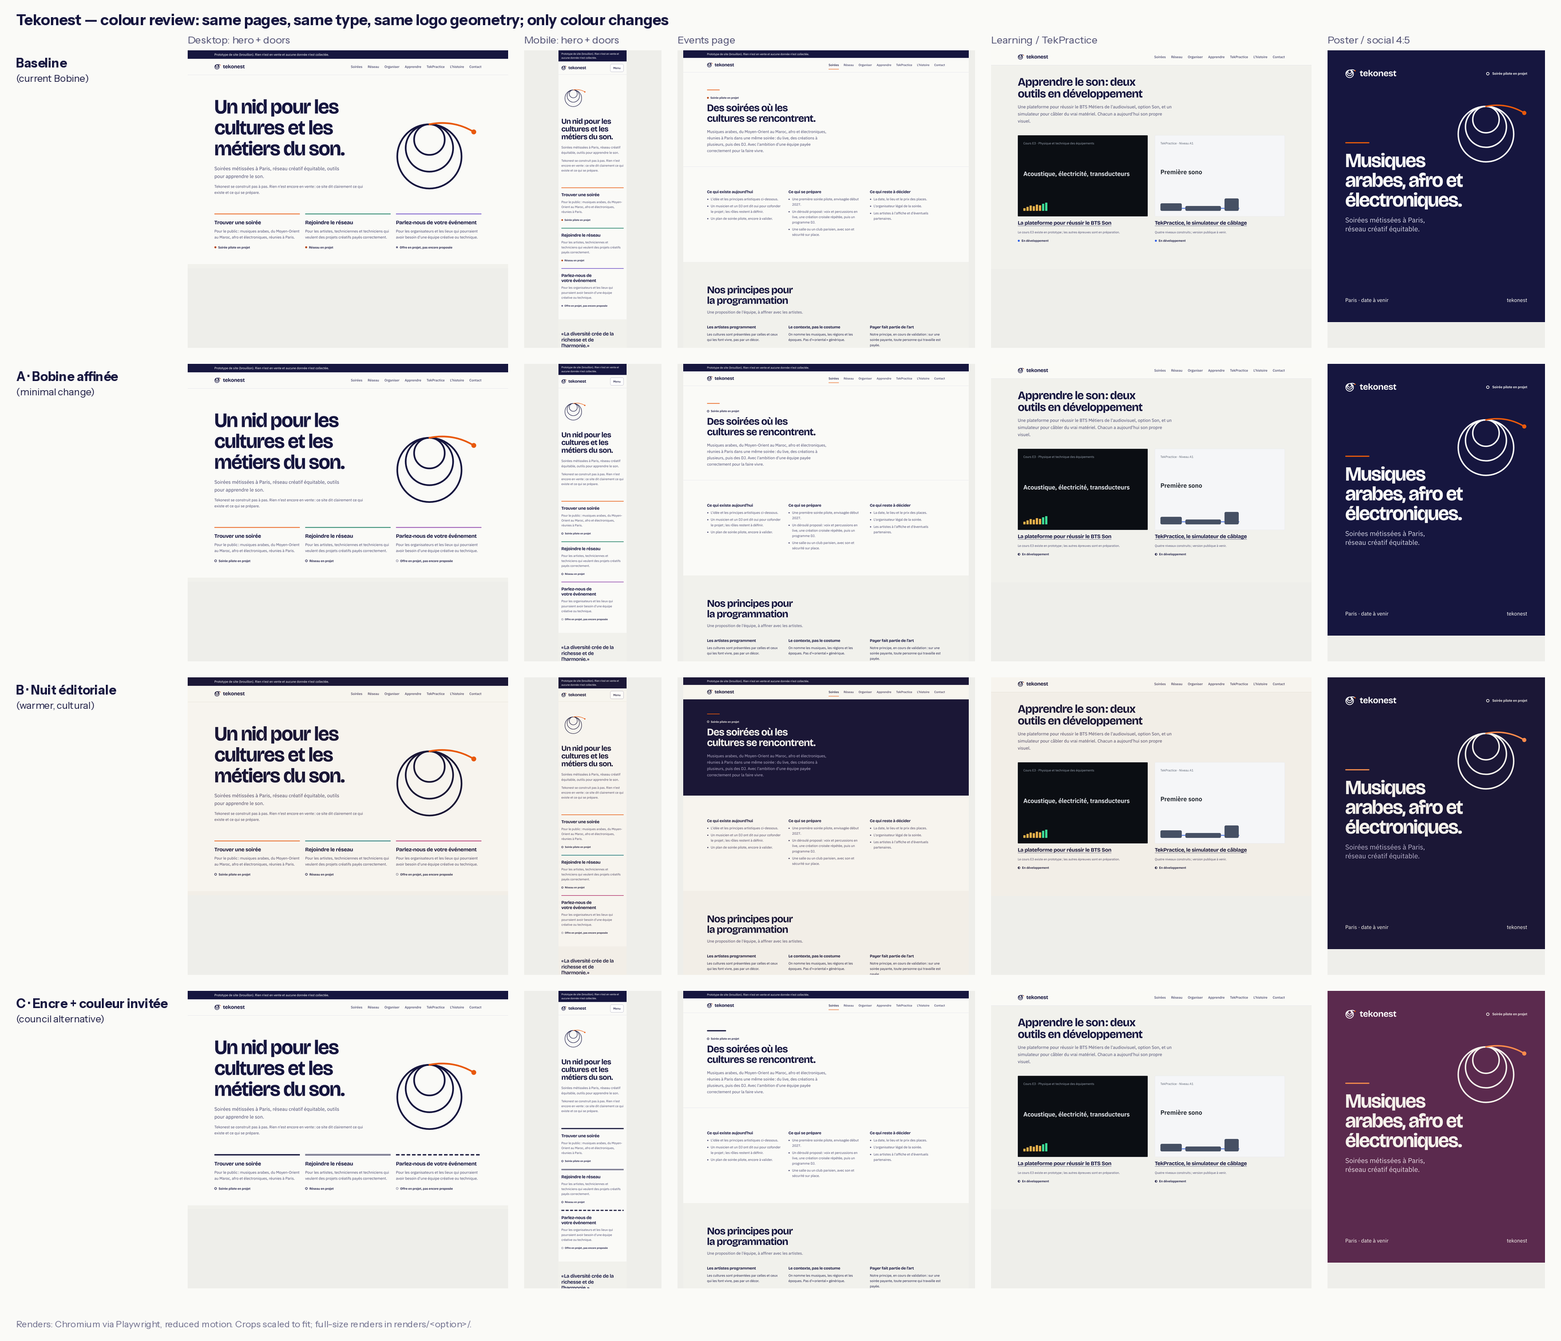
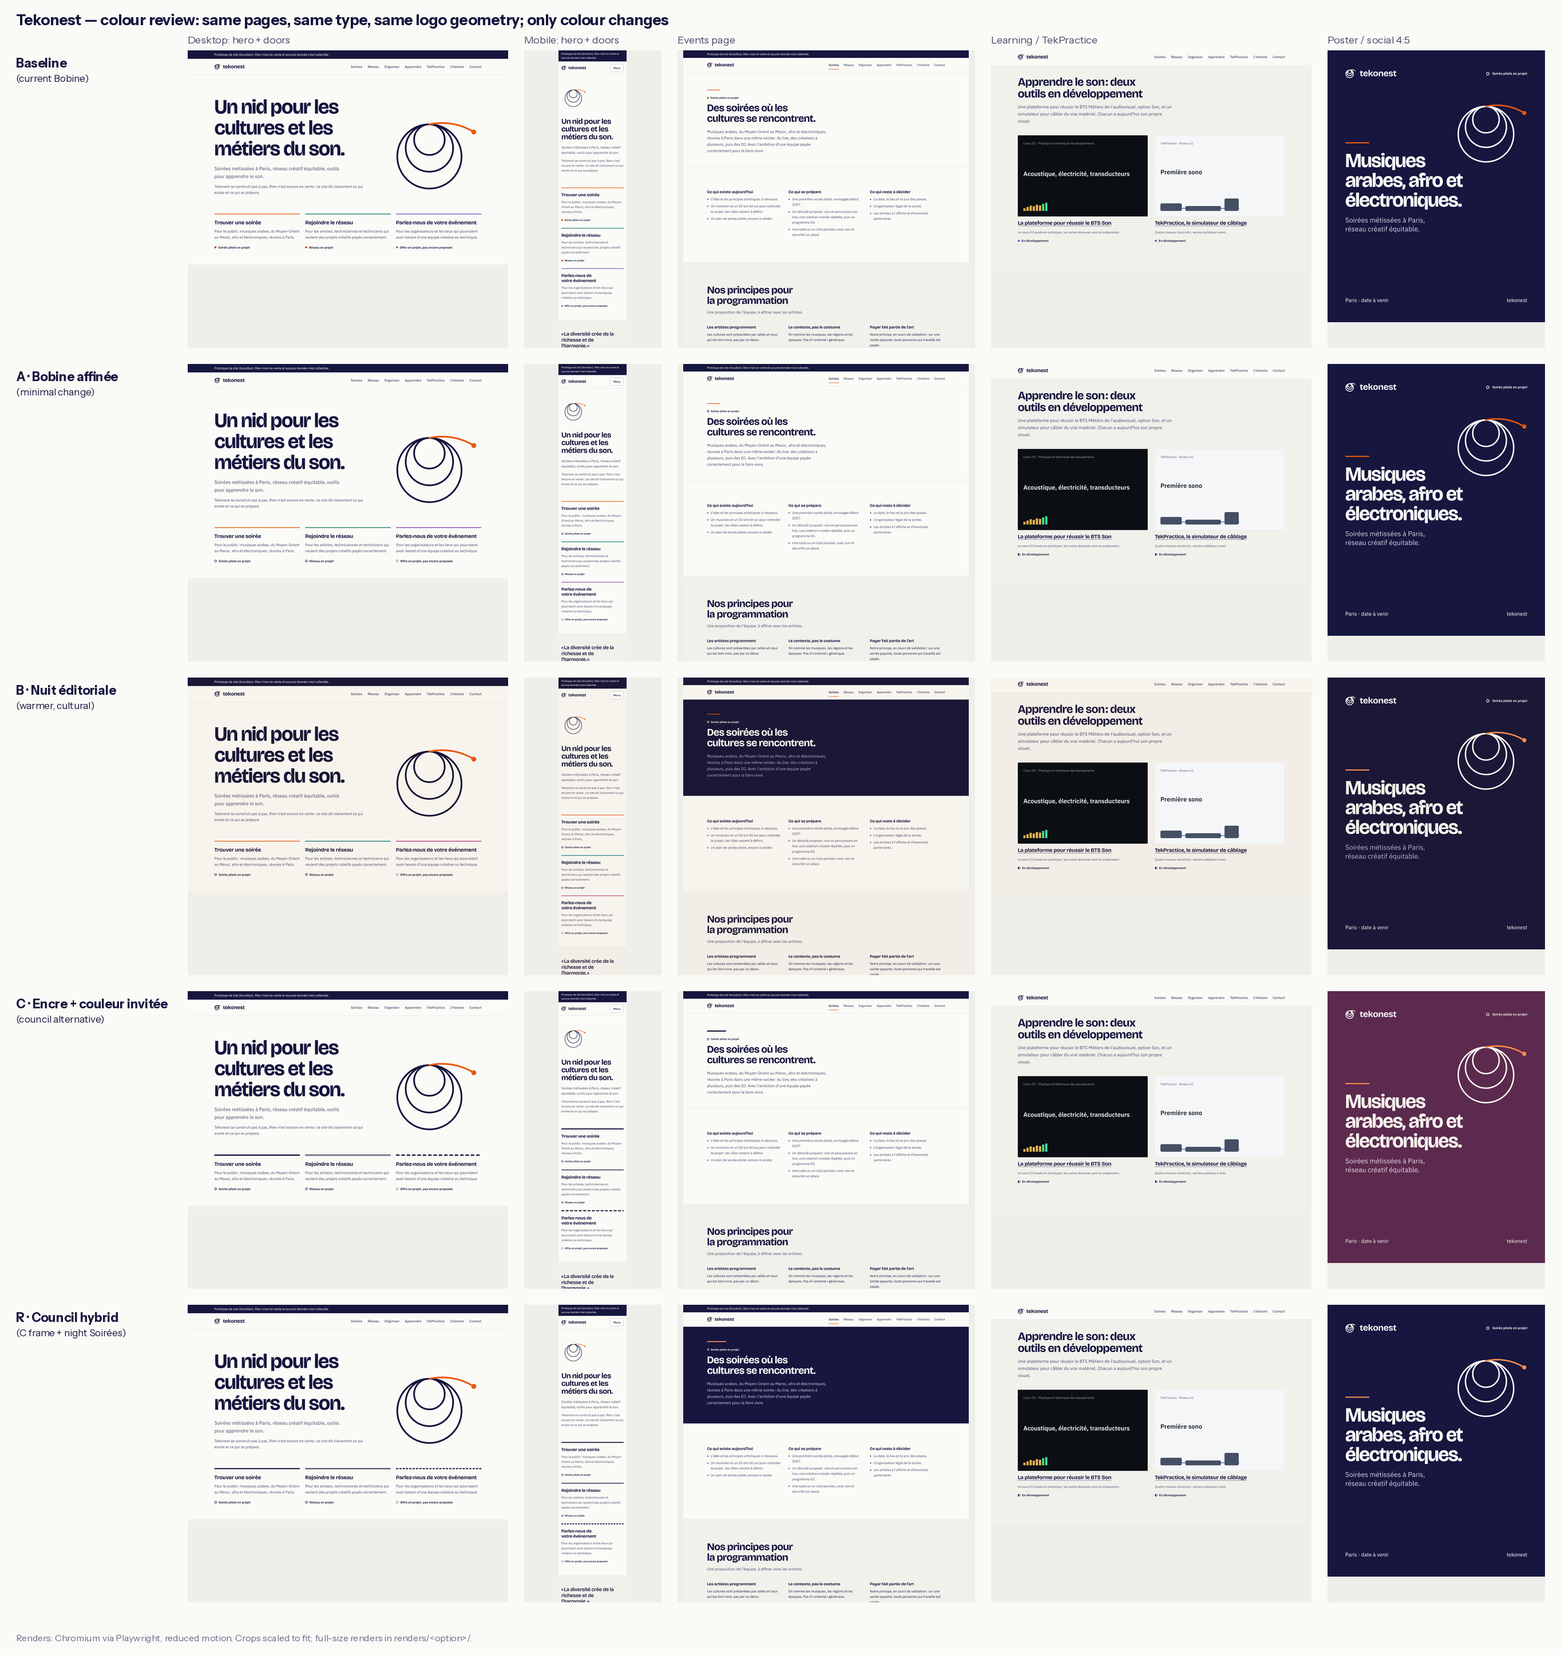
colour review: council round 2 + rendered council hybrid (R)
Claude-Session: https://claude.ai/code/session_01Gw4c8Kgd4brT9A9oYSwFTS

diff --git a/design/08-colour-review/tools/make_options.py b/design/08-colour-review/tools/make_options.py
@@ -75,3 +75,29 @@ C = {"name": "C-encre-invitee", "label": "C · Encre + couleur invitée (council
 
 for o in (A, B, C):
     (OUT / f"{o['name']}.json").write_text(json.dumps(o, indent=1, ensure_ascii=False)); print("wrote", o["name"])
+
+# ── Council recommendation (post round 2): C frame, native border patterns, Soirées night ground, focus colour per ground ──
+NAT = {"soirees": "solid", "reseau": "double", "organiser": "dashed", "apprendre": "dotted", "tekpractice": "dotted"}
+nat = "".join(f'[style*="--cable-{k}"]{{--cable-style:{v}}}\n' for k, v in NAT.items())
+FORCED = """
+@media (forced-colors: active){.status::before{forced-color-adjust:none;border-color:CanvasText}
+ .status--now::before{background:CanvasText}.status--dev::before{background:linear-gradient(90deg,CanvasText 50%,transparent 50%)}}
+"""
+R = {"name": "R-recommended-hybrid", "label": "R · Council hybrid (C frame + night Soirées)",
+ "tokens": {"--focus-color": INK, "--focus-ring": "3px solid var(--focus-color)", **{f"--cable-{k}": INK for k in PAT}, **{f"--cable-{k}-text": INK for k in PAT},
+            "--signal-on-dark": SCLAIR,
+            "--status-now": "var(--color-ink)", "--status-dev": "var(--color-ink)", "--status-prep": "var(--color-ink)", "--status-later": "var(--color-ink)",
+            "--poster-bg": INK, "--poster-ink": "#FAFAF7", "--poster-ink-2": "#D2D2E4", "--poster-accent": SCLAIR, "--poster-loop": "#FAFAF7"},
+ "extra_css": SHAPES + FORCED + "/* branch = name + NATIVE border style (survives forced colours, zoom, one-colour print). Implementation: data-branch, not [style*=] */\n" + nat + f"""
+.door{{border-top:5px var(--cable-style,solid) {INK}}}
+.branch-hero .cable{{height:0;width:96px;background:none;border-top:5px var(--cable-style,solid) {INK}}}
+.board tbody th a{{border-bottom:4px var(--cable-style,solid) {INK};padding-bottom:4px}}
+.signup{{border-top:5px var(--cable-style,solid) {INK}}}
+.site-footer{{--focus-color:#FAFAF7}}
+.branch-hero[style*="--cable-soirees"]{{background:{INK};color:#FAFAF7;padding-block:72px;--focus-color:#FAFAF7;--color-ink:#FAFAF7;--color-ink-2:#D2D2E4;--color-ink-3:#D2D2E4;--color-signal:{SCLAIR}}}
+.branch-hero[style*="--cable-soirees"] .cable{{border-top-color:{SCLAIR}}}
+""", "logo": {"ink": INK, "signal": "#E8590C"}, "poster": {"logo": "lockup-reverse.svg"},
+ "semantic": {"ground": "#FAFAF7", "branches": {}, "status": {}, "contrast_checks": checks("#FAFAF7", INK, "#4A4A6E", "#6B6B8A", "#B4430A", "#E8590C", "#8E8EA8", [
+     ["Focus ring on footer (paper colour on ink)", "#FAFAF7", INK, 3], ["Text on night (Soirées hero)", "#FAFAF7", INK, 4.5], ["Secondary on night", "#D2D2E4", INK, 4.5],
+     ["Sodium clair on night (text-capable)", SCLAIR, INK, 4.5], ["Sodium on night (logo plug)", "#E8590C", INK, 3]])}}
+(OUT / f"{R['name']}.json").write_text(json.dumps(R, indent=1, ensure_ascii=False)); print("wrote", R["name"])

diff --git a/design/08-colour-review/council/round2-tekbranddesigner.md b/design/08-colour-review/council/round2-tekbranddesigner.md
@@ -1,0 +1,48 @@
+# Round 2 — tekbranddesigner (structured challenge)
+
+> Evidence: comparison-board, vision-board, renders 1/3/5 for 0, A, B, C; metrics.md; options JSON. I computed the extra contrast values with WCAG 2.x. Riso behaviour is my trade judgement; it is not measured here.
+
+## 1. Challenge
+
+**tekcreativedirector**
+- Strongest point: warmth comes from the **ground**. B's events render (a full-bleed night hero) is the first web screen that feels like a night, and it adds no hue.
+- Most dangerous assumption: that a guest colour can replace the brand ground. C's poster render puts prune `#5B2A4E` under the coil. On an Instagram grid, every tile would then be a different colour, and recognition would rest on a 40 px coil alone.
+
+**tekdesigner**
+- Strongest point: the token-job audit. The ink focus ring and shape statuses fix measured defects, and the vision board shows that statuses survive every CVD simulation and grayscale.
+- Most dangerous assumption: that A is a safe stop. A still has five hues at L\* 38–56. In the grayscale column they are a single grey.
+
+## 2. Scores (1–5)
+
+| | A | B | C |
+|---|---|---|---|
+| Brand fit | 3: same navy+sodium, but branch hues still dilute the strand | 4: night hero = the poster's voice on the web | 4: purest ink+sodium, but the prune poster loses the navy |
+| Distinctiveness | 2: five rules look like a SaaS feature grid | 3: night ground is own-able; the hue set is not | 4: ink patterns (double, dashed) are unusual and ownable |
+| Emotional range | 2: cool throughout | 4: day/night split | 4: guest ink gives each edition its own feeling |
+| Legibility | 4: all pass | 4: all pass; sodium 3.26 on écru is thin | 5: ink everywhere, 16.45:1 |
+| Accessibility | 4: no ΔE<12 pairs | 4: same | 5: meaning never carried by hue |
+| Cross-service coherence | 3: product hues leak into the umbrella | 3: teal+bronze+raspberry are a new set to govern | 4: products keep their skins and the umbrella is neutral |
+| Maintenance | 3: 5 hues × 2 tokens | 2: new paper, line, ink and 3 new hues, plus two oranges | 4: one pattern set; the guest list needs a routine |
+
+## 3. Reproduction
+
+- **One-colour / photocopy:** A and B lose all branch identity. C is identical in one colour. The patterns do the job, and the grayscale column of the vision board proves it.
+- **Riso (2 inks):** A and B fail because five cable hues cannot print. In B, `#E8590C` and `#FF8A4C` collapse into one riso orange; that is acceptable but needs documenting. C works as navy + orange, or as guest + orange. **Caveat:** the Réseau double line has 2 px gaps, which will fill in with riso dot gain. In print it needs at least a 0.5 mm gap. Large guest floods will also show roller unevenness on riso, so proof them.
+- **Small social avatar:** coil + plug on navy works in all three. C must forbid guest grounds on the avatar. B's plug is lighter (`#FF8A4C`), which risks two avatar versions.
+- **375 px:** in A and B the coloured 3 px rules are visible but carry no meaning. In C, solid, double and dashed read clearly. Dotted and dash-dot are close at 375 px, so they need a minimum 4 px height and a label. The sodium strand is small in all three, and this is a geometry issue, not a colour one.
+- **Warmer paper:** I checked `#F8F6F1`. It drops the input border `#8E8EA8` to **2.95:1 (fail)** and sodium to 3.31. Warming the paper therefore forces changes to the line tokens too, which is expensive. Warmth should come from the night ground instead.
+
+## 4. Final position
+
+[POSITION CHANGE: Prefer C, B as fallback → C frame + B's night ground for Soirées, guest colour restricted | Trigger: the B events render shows a night ground carrying warmth with no hue; the C poster render shows a guest flood breaking grid recognition; my paper test shows a warmer paper fails the input border.]
+
+Exact tokens:
+- Keep `--color-paper #FAFAF7`, `--color-ink #16163F` and ink-2/3. Use **one navy only**. Drop `#1B1736`/`#1B1838`, because the logo files and riso ink map to one navy.
+- `--color-signal #E8590C` covers the plug, the strand and the active nav. Keep `--color-signal-text #B4430A`. Add `--signal-on-dark #FF8A4C` (7.37:1 on navy) for night text only. The plug stays `#E8590C` everywhere except guest grounds.
+- `--focus-ring: 3px solid var(--color-ink)`. On night grounds it is `#FAFAF7`.
+- Branches: all `--cable-*` = `#16163F` with C's patterns. Minimum height is 4 px on screen and the double-line gap is at least 0.5 mm in print.
+- Statuses: shape in ink (● ◐ ○ ◌), 11–12 px.
+- New `--ground-night #16163F` for the Soirées hero and footer, with `--ink-on-night #FAFAF7` and `--ink-2-on-night #B9B2CC` (8.44:1).
+- Guest: `--guest-accent`, one per edition, from the creative director's G1–G7 list. It may flood **that edition's poster only**. The avatar, recurring social templates and the website stay navy. On a guest ground, the plug is `#FF8A4C`, because `#E8590C` on prune is only 3.11:1.
+
+POSITION: C frame (ink + sodium, patterned ink branches, shape statuses, ink focus) + B's navy night ground for Soirées; single navy `#16163F`, paper unchanged; guest colour poster-only | CONFIDENCE: 82 | RISK: Guest-colour governance slips (several guests, or guests on the avatar/templates), and the grid loses its navy anchor; riso dot gain closes the double-line pattern unless it is proofed.

diff --git a/design/08-colour-review/council/round2-tekcreativedirector.md b/design/08-colour-review/council/round2-tekcreativedirector.md
@@ -1,0 +1,46 @@
+# Round 2 — tekcreativedirector (structured challenge, colour only)
+
+> Evidence: comparison-board, vision-board, full renders 1/3/5 for 0, A, B, C, the metrics.md files and the research file. I computed the new contrast values with the WCAG formula.
+
+## 1. Challenge to the other experts
+
+**tekbranddesigner**
+- **Strongest point:** the one-colour and two-ink riso test. The renders bear it out: only ink, paper and sodium survive in the grayscale column.
+- **Most dangerous assumption:** that "warmth comes from photography and Arabic type". None exists yet. Until it does, colour is the only warmth we can ship, so the ground has to do part of that work.
+
+**tekdesigner**
+- **Strongest point:** the token-job audit. Identical status/branch hexes and the orange focus ring sitting on the orange cable are real, measured defects.
+- **Most dangerous assumption:** that A is a step "towards C". A keeps five branch hues and adds a prune Organiser. It entrenches the rainbow legend instead of retiring it. A fixes compliance, not meaning.
+
+## 2. Scores (1–5)
+
+| | A Bobine affinée | B Nuit éditoriale | C Encre + invitée |
+|---|---|---|---|
+| Brand fit | 3: correct but still "calm edtech"; events page is all paper and grey | 4: the Soirées hero on Nuit finally says "night" | 4: the frame is pure Tekonest; the prune poster still reads as us because the coil and sodium hold |
+| Distinctiveness | 2: navy + orange + 4 cables = generic SaaS doors | 3: night/day split is ownable; teal/raspberry/bronze cables are boutique-generic | 4: ink-only doors + one guest ground is rare in nightlife |
+| Emotional range | 2: one register (day) | 4: day for information, night for culture | 4: range lives in the guest ground; but the website itself is the coldest of all four |
+| Legibility | 4 | 4: écru reads well; sodium on sunken is thin (3.10) | 4: ink everywhere |
+| Accessibility | 4: all pass, but hue is still a branch cue | 4: passes; margins on écru are thin | 4: patterns pass CVD and grayscale, but dotted/dashed **collide with the status shapes** (see 3) |
+| Cross-service coherence | 3: amber/blue leak from the products as umbrella cables | 3: écru drifts from white TekPractice; cables still leak | 5: products keep their skins; the umbrella is neutral |
+| Maintenance | 4: small diff | 3: two grounds plus five cables | 3: needs a guest-colour routine; patterns add CSS |
+
+## 3. Defects seen in the renders
+
+- **A, events (3):** no night anywhere. The hero is paper with a 60 px orange rule. It is too timid for a party page.
+- **B, events (3):** the Nuit hero is right, but its right half is empty navy. The sodium rule is the only light, so it reads as a "dark corporate banner", not a room.
+- **B, home doors (1):** teal + raspberry + bronze on écru reads as heritage boutique or tea-house. It reintroduces the branch hues we agreed to drop.
+- **C, doors (1) + vision board:** the Organiser **dashed** cable sits beside the **dashed-ring** "plus tard" status, and Apprendre's **dotted** cable echoes the dotted "later" ring. Patterns now carry two meanings, the same defect we killed in hue. Dashes also read as "unfinished/wireframe".
+- **C, poster (5):** prune `#5B2A4E` with sodium clair is handsome, but as the *default* render it implies "Tekonest = plum". Plum + orange also edges towards "sunset/spice". It must stay a per-night guest, never the default.
+- **All:** the nav underline is still sodium on product pages that have their own accent. Forbid sodium next to a product accent in the same strip.
+- **Forbid:** a guest colour beside Nuit in the same artefact; pale guest + pure sodium; any two guest colours together.
+
+## 4. Final position
+
+Hybrid **C frame + B night**. This is consistent with round 1, sharpened by the renders: no position change.
+- **Umbrella:** ink + paper + sodium only. Every door rule is a **solid ink 3 px**, and the branch is carried by its name. **Drop C's patterns** (collision with the status shapes).
+- **Paper:** `#F8F6F1` (a half-step towards B, not écru). Ink 15.93:1, sodium 3.31:1, captions `#6B6B8A` 4.75:1. Reject B's `#F2EEE7` sunken band (sodium 3.10, too thin).
+- **Soirées:** B's Nuit `#1B1736` full-bleed hero, with type `#F4F0EA` (15.13:1), Brume `#B9B2CC`, and sodium clair `#FF8A4C` (7.36:1). The coil + strand must sit in the empty right half: same geometry, colour only.
+- **Default poster ground** = Nuit `#1B1736`. A guest colour (e.g. prune `#5B2A4E`, text 9.81:1, sodium clair 4.77:1) replaces Nuit only per night, chosen with the artists.
+- **Statuses:** ink shapes as rendered, 12 px.
+
+POSITION: C frame (ink + paper + sodium, solid ink rules, no branch hues or patterns) + B Nuit for Soirées and default posters + guest colour per night | CONFIDENCE: 78 | RISK: I block branch hues on the umbrella (A/B cables), pattern cables that reuse status shapes, a guest colour as the default poster ground, sodium on `#F2EEE7`, and plum/gold/teal guest sets presented as "cultural" codes.

diff --git a/design/08-colour-review/council/round2-tekdesigner.md b/design/08-colour-review/council/round2-tekdesigner.md
@@ -1,0 +1,62 @@
+# Round 2 — tekdesigner (structured challenge, colour only)
+
+> Evidence: renders, metrics.md, `make_options.py`, site/tokens CSS, plus my own Playwright probes on scratch copies (focused outline colour, forced colours, status crops at 375 px and 200 %).
+
+## 1. Challenge
+
+| Expert | Strongest point | Most dangerous assumption |
+| --- | --- | --- |
+| tekcreativedirector | Warmth from the **ground** (Soirées on night), not hues. | That night grounds are free: B's ring resolves at `:root`, so it is 1:1 on Nuit. G5 plug is only 3.21:1. |
+| tekbranddesigner | One-colour/riso test: branches cannot be hue. | Ink #141432: asset churn for +0.6 contrast. A small team keeping a per-edition routine; teal (4.35:1) leaking into text. |
+
+## 2. Scores (1–5)
+
+| | Brand fit | Distinct. | Emotion | Legibility | A11y | Cross-service | Maintenance |
+| --- | --- | --- | --- | --- | --- | --- | --- |
+| A | 3 | 2 | 2 | 5 | 4 | 3 | 3 |
+| B | 4 | 3 | 4 | 4 | 3 | 3 | 2 |
+| C | 4 | 4 | 3 | 5 | 4 | 5 | 3 |
+
+- **A:** 9 chromatic signals; cables at grayscale L\* 38–56. Correct but forgettable.
+- **B:** warmest render, but it overrides the whole neutral ramp, scoped hero hacks, hard-coded hovers.
+- **C:** clean in 6-semantics and mobile, CVD- and print-proof. Maintenance is low only because of the implementation (§3).
+
+## 3. Audit
+
+**Status shapes.** At 375 px all four are distinct (○ vs ◌ is weakest); at 200 % unambiguous. Labels are present, so no 1.4.1 issue. **Defect:** in forced colours the fills become Canvas, so ●, ◐ and ○ collapse to one ring. Fix: `forced-color-adjust:none` with `CanvasText` fills.
+
+**C's cable patterns.** They are not robust as specified.
+- Gradient backgrounds vanish in forced colours: the probe found `.door` with no border and no image.
+- The 2/2/2 px double line greys out at 110–125 % zoom; dash-dot is hard to learn.
+- `[style*="--cable-…"]` is a brittle selector, and `.signup` (site.css:177) was missed.
+- **Fix:** native `border-top-style` (solid, double, dashed, dotted) via `data-branch`. Apprendre and TekPractice share dotted, which retires dash-dot.
+
+**Hard-coded colours the specs missed.**
+`#26265C` (hover), `#D2D2E4` and `#36366A` (footer) are patched only by B; A and C are safe while ink stays unchanged. `.preview-*` colours are product skins; keep them.
+
+**B's sodium margins.** 3.26:1 and 3.10:1 pass by only 0.10–0.26. More warmth, a CMYK proof or a dim phone would fail them, and the `aria-current` underline relies on this margin.
+
+**Focus (1.4.11 / 2.4.7; 2.4.11 not obscured).** This is a **blocker in all three options**.
+- `--focus-ring` is pre-composed at `:root`, so footer links get an ink ring on an ink ground: 1:1 measured (baseline sodium: 4.81:1).
+- Fix: `--focus-color` and `--focus-width`, with `--focus-color` re-declared in each dark scope.
+- 2.4.11: keep `scroll-padding-top: 96px` for the sticky header.
+
+## 4. Final position — hybrid "C-native"
+
+`[POSITION CHANGE: A now, converge to C → hybrid C-native directly | Trigger: C's renders hold at 375 px; native borders remove its implementation risk, so two migrations cost more than one.]`
+
+| Token | Value |
+| --- | --- |
+| `--color-paper / ink / ink-2 / ink-3` | unchanged (#FAFAF7 / #16163F / #4A4A6E / #6B6B8A) |
+| `--color-signal` | #E8590C: plug, strand, `aria-current` only |
+| `--focus-color` | `var(--color-ink)`; in `.site-footer` and night scopes, #FAFAF7 (16.45:1) |
+| `--focus-width` | 3px (offset 3px); rules use `outline: var(--focus-width) solid var(--focus-color)` |
+| `--cable-*` (all five) and `--cable-*-text` | #16163F |
+| `--cable-style` | soirees solid · reseau double (6px) · organiser dashed · apprendre/tekpractice dotted |
+| `--status-now/dev/prep/later` | `var(--color-ink)` + shapes + forced-colours fallback |
+| `--night-ground` | #16163F for the Soirées hero (from B, without the ink change); `--signal-on-night` #FF8A4C (7.36:1 on #1B1736, ≥6.6 on #16163F) |
+| `--guest-accent` | poster/social scope only; plug ≥ 3.5:1 on it (drop G5) |
+
+Rejected: B's écru ramp (sodium margin, drift from TekPractice white), ink #141432, umbrella branch hues.
+
+POSITION: Hybrid C-native. Ink and sodium form the umbrella. Branches use native border patterns, statuses use ink shapes, the Soirées hero sits on night, and the guest accent is poster-only. The focus colour is split per ground. | CONFIDENCE: 78 | RISK: I block any option that ships with the pre-composed `--focus-ring` (1:1 on the footer), gradient-drawn cables (they vanish in forced colours), `[style*=]` selectors, or sodium below 3.3:1 on any ground.

diff --git a/design/08-colour-review/renders/R-recommended-hybrid/metrics.md b/design/08-colour-review/renders/R-recommended-hybrid/metrics.md
@@ -1,0 +1,29 @@
+### R · Council hybrid (C frame + night Soirées)
+
+| Pair (fg on bg) | Ratio | Needs | Pass |
+| --- | --- | --- | --- |
+| Body text ink on paper (`#16163F` on `#FAFAF7`) | 16.45:1 | 4.5:1 | ✅ |
+| Secondary text (`#4A4A6E` on `#FAFAF7`) | 8.05:1 | 4.5:1 | ✅ |
+| Captions (`#6B6B8A` on `#FAFAF7`) | 4.90:1 | 4.5:1 | ✅ |
+| Sodium as text (`#B4430A` on `#FAFAF7`) | 5.36:1 | 4.5:1 | ✅ |
+| Focus ring (ink) vs paper (`#16163F` on `#FAFAF7`) | 16.45:1 | 3:1 | ✅ |
+| Sodium strand / plug vs paper (non-text) (`#E8590C` on `#FAFAF7`) | 3.42:1 | 3:1 | ✅ |
+| Input border (`#8E8EA8` on `#FAFAF7`) | 3.05:1 | 3:1 | ✅ |
+| White on ink (primary button) (`#FFFFFF` on `#16163F`) | 17.20:1 | 4.5:1 | ✅ |
+| Focus ring on footer (paper colour on ink) (`#FAFAF7` on `#16163F`) | 16.45:1 | 3:1 | ✅ |
+| Text on night (Soirées hero) (`#FAFAF7` on `#16163F`) | 16.45:1 | 4.5:1 | ✅ |
+| Secondary on night (`#D2D2E4` on `#16163F`) | 11.53:1 | 4.5:1 | ✅ |
+| Sodium clair on night (text-capable) (`#FF8A4C` on `#16163F`) | 7.37:1 | 4.5:1 | ✅ |
+| Sodium on night (logo plug) (`#E8590C` on `#16163F`) | 4.81:1 | 3:1 | ✅ |
+
+**Hard-to-tell-apart pairs (ΔE < 12) among branch and status colours**
+
+| Vision | Pairs |
+| --- | --- |
+| normal | none |
+| protan | none |
+| deutan | none |
+| tritan | none |
+
+**Grayscale lightness (L\*)** —  · ground 98
+
